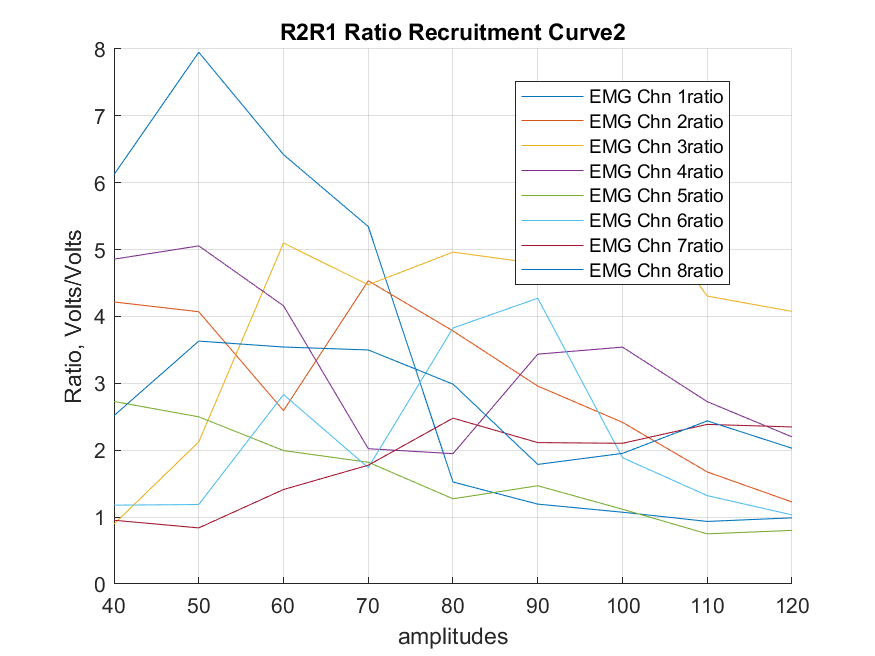
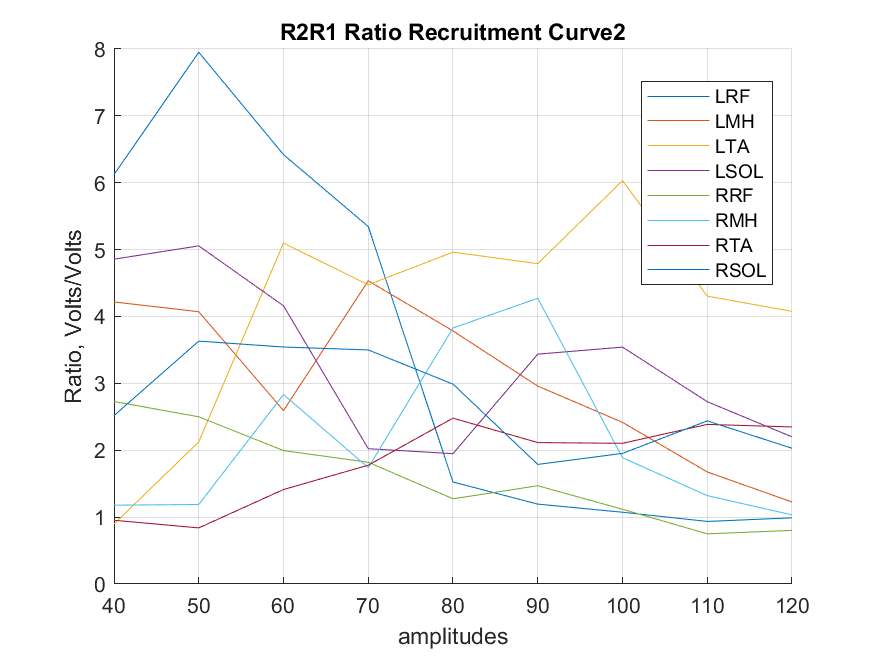
Per Muscle Plotting updated

Changed region(s): [[0.5863, 0.122, 0.8949, 0.4268], [0.5863, 0.122, 0.6171, 0.3049]]

diff --git a/PlotRC.m b/PlotRC.m
@@ -1,4 +1,4 @@
-function confirmation = PlotRC(data, data_range, repetition, bool_normalize,bool_global_normalization)
+function confirmation = PlotRC(data, data_range, repetition, bool_normalize,bool_permuscle)
     
     % data: the struct input, should consists of columns str and emg chns
     % data_range: integer, how many rows should be plotted in one plot ; represents a
@@ -21,8 +21,8 @@ function confirmation = PlotRC(data, data_range, repetition, bool_normalize,bool
 
      %Global normalization
      if bool_normalize 
-         str_normalize = "normalized";
-         if bool_global_normalization
+         str_normalize = "normalized ";
+         if ~bool_permuscle
              str_global = "globally";
              to_normalize = data{:, 2:data_width};
             
@@ -33,8 +33,8 @@ function confirmation = PlotRC(data, data_range, repetition, bool_normalize,bool
             data{:, 2:data_width} = normalizedData;
 
          else 
-            str_global = "permuscle";
-            data{:,2:data_width} = normalize(data{:, 2:data_width}, 'range'); %TODO: parameterize the number of columns
+            str_global = "per muscle";
+            data{:,2:data_width} = normalize(data{:, 2:data_width}, 'range');
          end
 
         % for col = 2:9
@@ -45,6 +45,38 @@ function confirmation = PlotRC(data, data_range, repetition, bool_normalize,bool
 
      %
 
+    if str_global == "per muscle"
+     %%Plotting per muscle 
+
+     %New plotting draft
+     %for i = 2:data_width %each column
+     %for r = 1:repetition %each of this will be a line in one graph
+
+     for i = 2:data_width %First, define the columns
+        figure;
+        hold on;
+        muscle_name = data.Properties.VariableNames{i};
+
+        for r = 1:repetition %Plot each range of data as a separate line
+            curr_range = (1:data_range) + data_range * (r-1) ;
+            x = data{curr_range,1};
+            channel = data{curr_range,i}; %TODO: change this so that it just loops through each column
+            plot(x, channel, "DisplayName","record " + r); % DONE: change dispalyname to be the column name
+        end
+        % Customize plot
+        title(str_normalize + muscle_name + " Recruitment Curve");
+        xlabel('amplitudes');
+        ylabel('Intensity, Volts');
+        legend('Location','best'); % or best outside;
+        grid on;
+        hold off;
+        
+        saveas(gcf, "Output/rcplot " + muscle_name + " " + str_normalize + str_global + ".png");
+        clf; 
+
+     end
+
+    else
      for r = 1:repetition
         %First, extract x-axis (str.values)
         figure;
@@ -68,10 +100,6 @@ function confirmation = PlotRC(data, data_range, repetition, bool_normalize,bool
             0.1216, 0.4667, 0.7059;  % Blue
         ];
         
-        %Then, for each of the rest of the str columns/for each "EMG_chn_" + i + "r1"
-            % channel = outr1.("EMG_Chn_" + i + "_r1")
-            % plot(x, channel, ....)   
-        
         for i = 2:data_width % TODO: change this st. it just goes through each column one by one
             channel = data{curr_range,i}; %TODO: change this so that it just loops through each column
             % channel = channel(curr_range);
@@ -80,7 +108,7 @@ function confirmation = PlotRC(data, data_range, repetition, bool_normalize,bool
         % As such, the data structure must treat each channel as a separate object
         
         % Customize plot
-        title("Recruitment Curve" + r);
+        title(str_normalized + "Recruitment Curve" + r);
         xlabel('amplitudes');
         ylabel('Intensity - Volts');
         legend('Location','best'); % or best outside;
@@ -89,10 +117,12 @@ function confirmation = PlotRC(data, data_range, repetition, bool_normalize,bool
         
         saveas(gcf, "Output/plot" + r + str_normalize + str_global + ".png");
         clf; 
-    end
+     end
 
+    end
     confirmation = 1;
 end
+
 
 
 %%%%List of parameters

diff --git a/PlotRatioRC.m b/PlotRatioRC.m
@@ -14,25 +14,28 @@ function confirmation = PlotRatioRC(data, data_range, repetition, bool_normalize
      % in less stimulated muscles are exaggerrated
 
      str_normalize = "";
-     str_global = "";     
+     str_global = "";
+     data_width = width(data);
+     
 
      %Global normalization
      if bool_normalize 
          str_normalize = "normalized";
          if bool_global_normalization
              str_global = "globally";
-             to_normalize = data{:, 2:9};
+             to_normalize = data{:, 2:data_width};
             
             % Normalize across all columns as a single unit (min-max normalization)
             normalizedData = (to_normalize - min(to_normalize, [], 'all')) / (max(to_normalize, [], 'all') - min(to_normalize, [], 'all'));
             
             % Assign normalized values back to the table
-            data{:, 2:9} = normalizedData;
+            data{:, 2:data_width} = normalizedData;
+            
 
          else 
             str_global = "permuscle";
-            data{:,2:9} = normalize(data{:, 2:9}, 'range'); %TODO: parameterize the number of columns
-         end
+            data{:,2:data_width} = normalize(data{:, 2:data_width}, 'range');
+        end
 
         % for col = 2:9
         %     outr3{:, col} = normalize(outr3{:, col}, 'range'); % Min-max normalization for each column
@@ -49,7 +52,7 @@ function confirmation = PlotRatioRC(data, data_range, repetition, bool_normalize
 
 
         curr_range = (1:data_range) + data_range * (r-1) ;
-        x = data.str(curr_range);
+        x = data{curr_range,1};
         
         
         tab10 = [
@@ -65,14 +68,11 @@ function confirmation = PlotRatioRC(data, data_range, repetition, bool_normalize
             0.1216, 0.4667, 0.7059;  % Blue
         ];
         
-        %Then, for each of the rest of the str columns/for each "EMG_chn_" + i + "r1"
-            % channel = outr1.("EMG_Chn_" + i + "_r1")
-            % plot(x, channel, ....)   
-        
-        for i = 1:8 % TODO: change this st. it just goes through each column one by one
-            channel = data.("EMG_Chn_" + i + "_r2"); %TODO: change this so that it just loops through each column
-            channel = channel(curr_range); % TODO: make sure to take each column name instead of naming them
-            plot(x, channel, "DisplayName","EMG Chn " + i + "ratio"); % TODO: change dispalyname to be the column name
+
+        for i = 2:data_width % TODO: change this st. it just goes through each column one by one
+            channel = data{curr_range,i}; %TODO: change this so that it just loops through each column
+            % channel = channel(curr_range);
+            plot(x, channel, "DisplayName",data.Properties.VariableNames{i}); % DONE: change dispalyname to be the column name
         end
         % As such, the data structure must treat each channel as a separate object
         
@@ -84,7 +84,7 @@ function confirmation = PlotRatioRC(data, data_range, repetition, bool_normalize
         grid on;
         hold off;
         
-        saveas(gcf, "Output/r2r1plot alt" + r + str_normalize + str_global + ".png");
+        saveas(gcf, "Output/r2r1plot" + r + str_normalize + str_global + ".png");
         clf; 
     end
 

diff --git a/AutomationDraft.m b/AutomationDraft.m
@@ -228,7 +228,7 @@ fprintf('\n Done! \n\n')
 fprintf('\n ===== detected R2/R1 ratio boolean, calculating... ===== \n\n' );
 
 outratio = outr2; % Initialize the new table with outr1's structure
-outratio{:, 2:9} = outr1{:, 2:9} ./ outr2{:, 2:9}; % Element-wise division
+outratio{:, 2:9} = outr2{:, 2:9} ./ outr1{:, 2:9}; % Element-wise division
 
 outrationame = 'Output/outputr2r1ratio.csv';
 writetable(outratio, outrationame);
